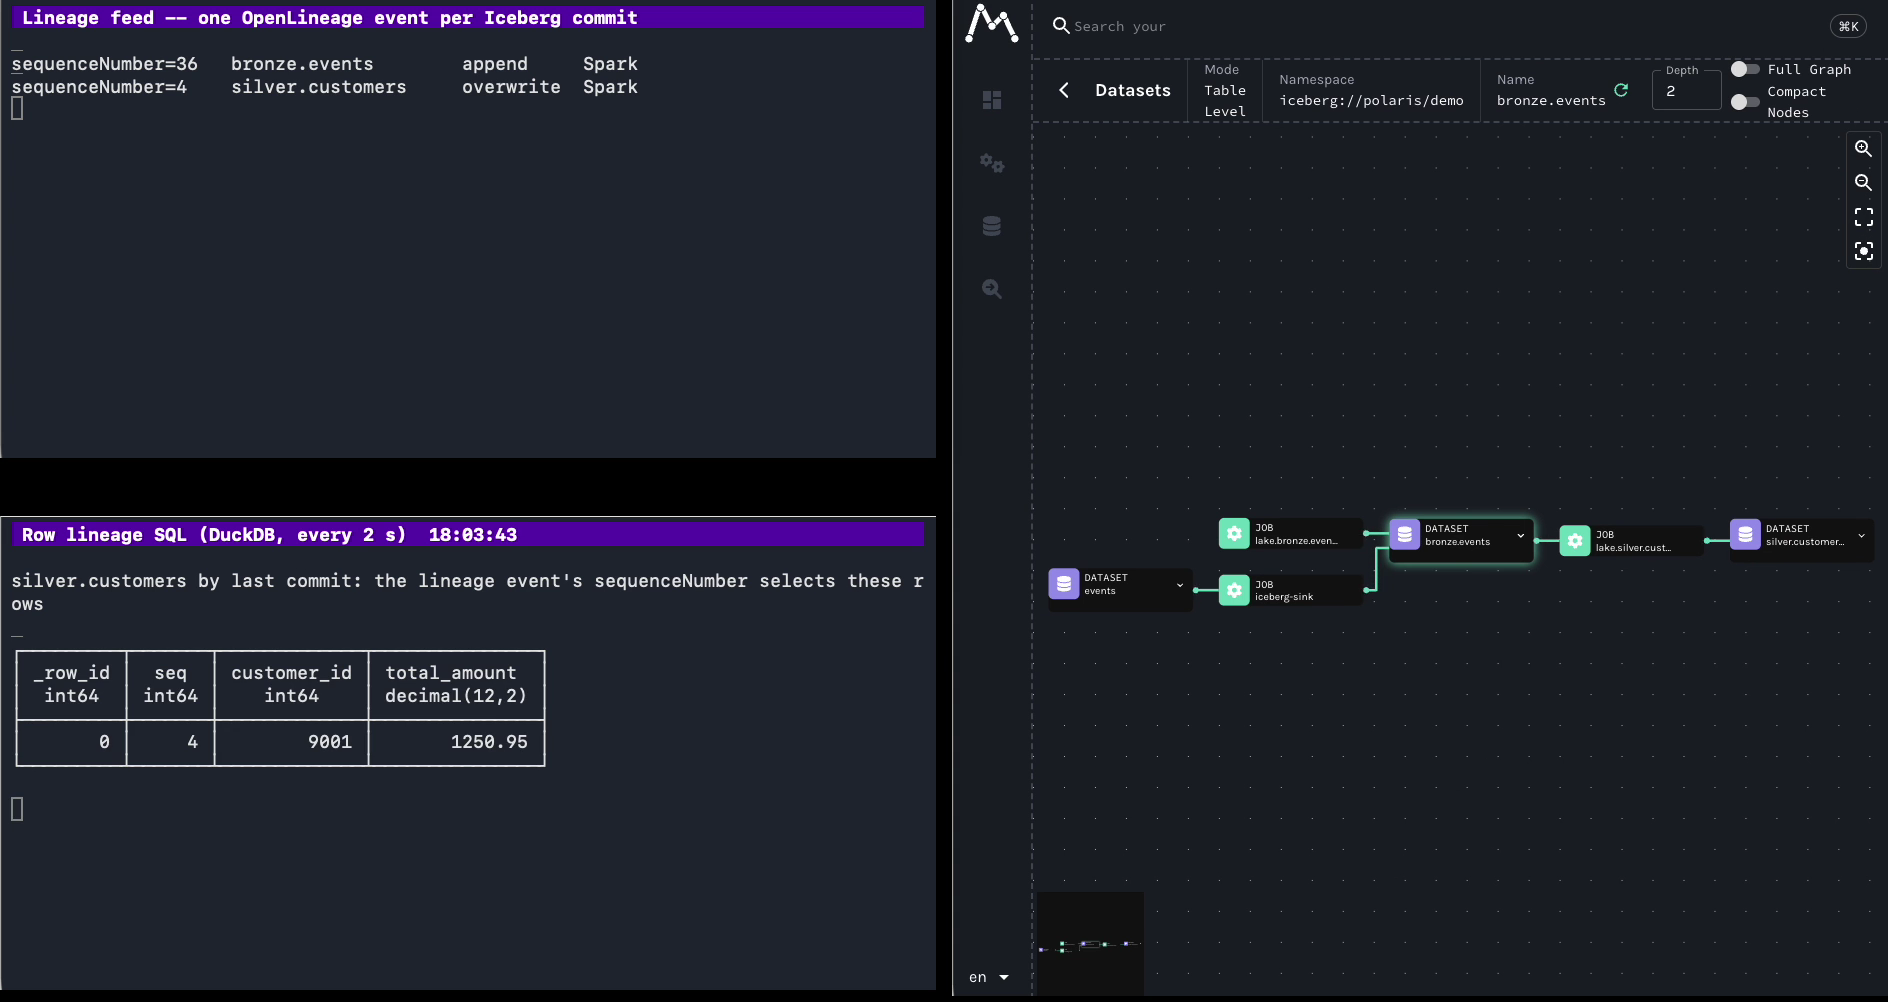
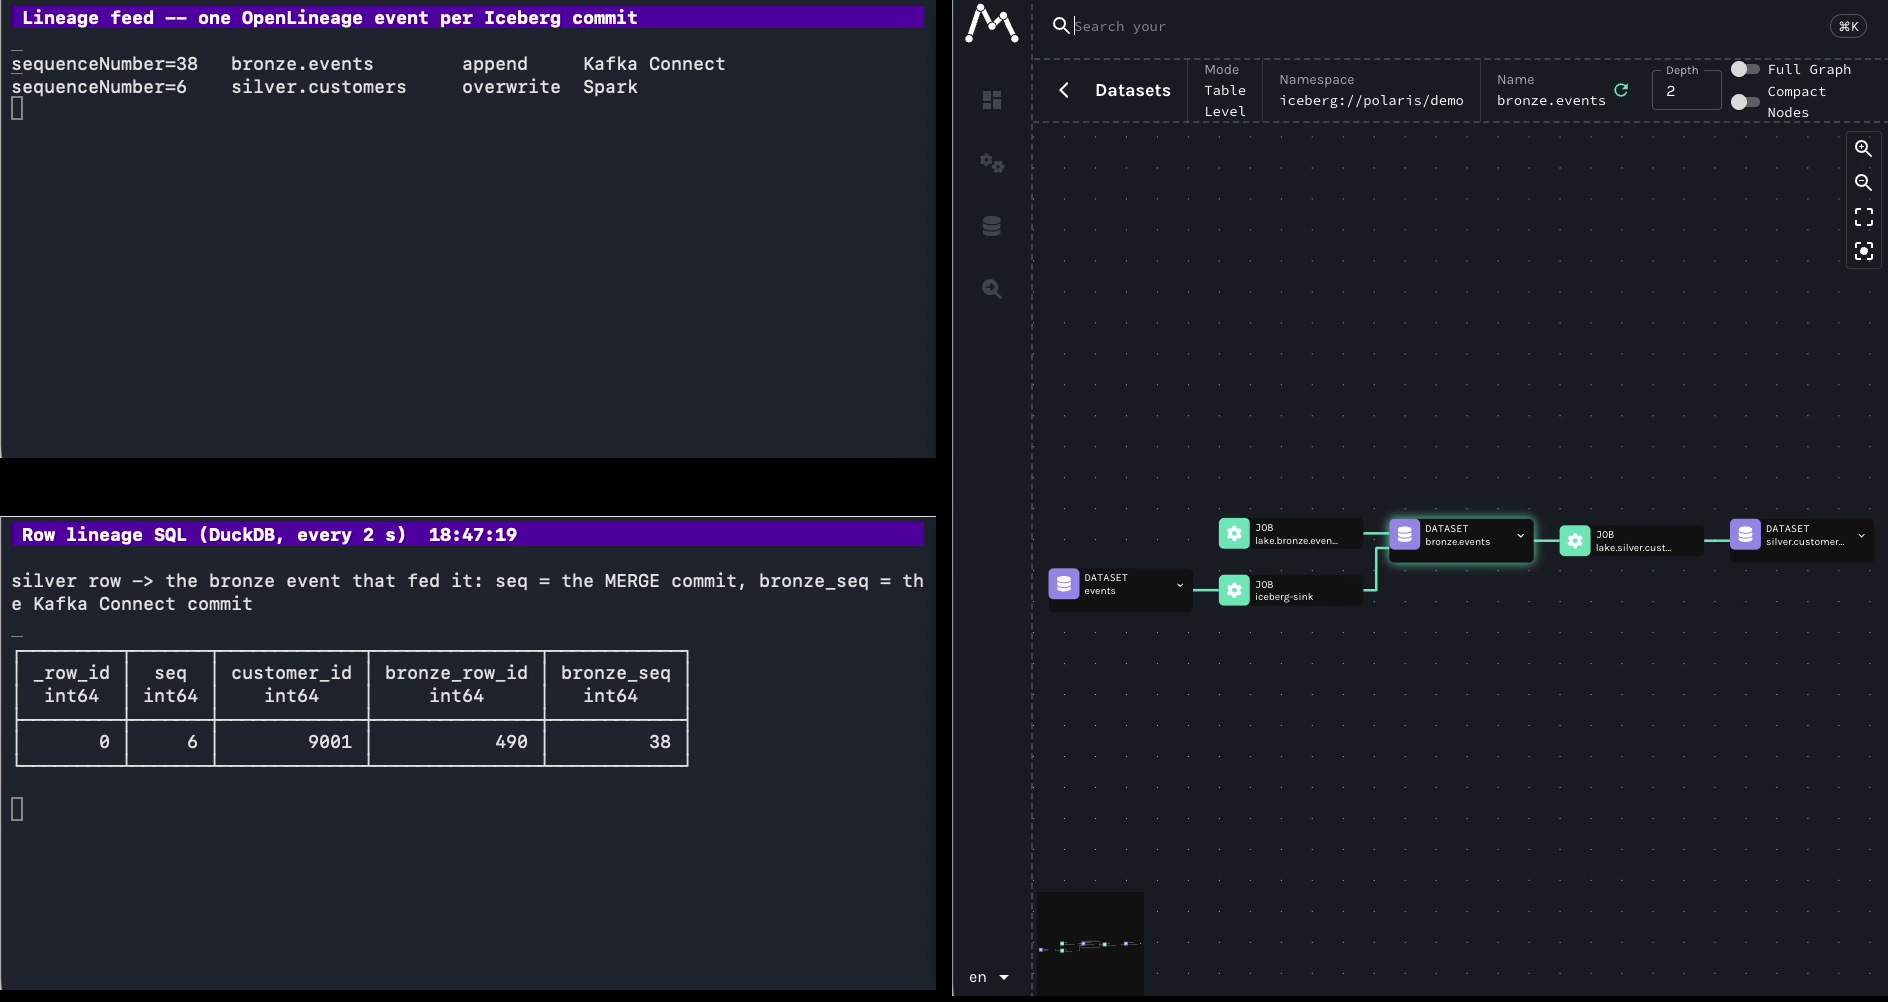
Trace a silver row back to its Kafka input; define lakehouse-native streaming
Stage 4's event now streams in through Kafka and Kafka Connect, and a new
step follows the silver row's last_event_id to its bronze row, that row's
sequence number to the Kafka Connect commit, and the commit's lineage event
to the topic (scripts/lineage_event_for_seq.py). The recorder's stage 4 SQL
pane shows the join; stage 4 re-recorded (take 114602). Slide plan and
Claude Design prompt: slide 3 defines lakehouse-native streaming, slide 19
walks row -> input record -> ingest commit -> topic.

diff --git a/scripts/lineage_event_for_seq.py b/scripts/lineage_event_for_seq.py
@@ -1,0 +1,58 @@
+#!/usr/bin/env python3
+"""
+Runs on the HOST (not in a container) -- reads the collector's JSONL log
+directly off disk via the bind-mounted ./out/openlineage volume.
+
+Finds the OpenLineage event for one Iceberg commit: the event whose
+iceberg_commit.tableName contains the given substring and whose
+sequenceNumber matches. Prints the job that made the commit and the datasets
+it read (for Kafka Connect: the Kafka topic) -- Stage 04's last hop, from a
+bronze row's _last_updated_sequence_number back to the stream.
+
+Usage: lineage_event_for_seq.py <table_substring> <sequence_number>
+"""
+import json
+import sys
+from pathlib import Path
+
+LOG_FILE = Path(__file__).resolve().parent.parent / "out" / "openlineage" / "events.jsonl"
+
+
+def main() -> int:
+    if len(sys.argv) < 3:
+        print(__doc__)
+        return 2
+    table_substring, sequence_number = sys.argv[1], int(sys.argv[2])
+
+    if not LOG_FILE.exists():
+        print(f"FAIL: {LOG_FILE} does not exist yet -- has any commit happened?", file=sys.stderr)
+        return 1
+
+    match = None
+    with open(LOG_FILE) as f:
+        for line in f:
+            line = line.strip()
+            if not line:
+                continue
+            event = json.loads(line)
+            commit = event.get("run", {}).get("facets", {}).get("iceberg_commit", {})
+            if table_substring in commit.get("tableName", "") and commit.get("sequenceNumber") == sequence_number:
+                match = event
+
+    if match is None:
+        print(f"FAIL: no lineage event for '{table_substring}' at sequenceNumber {sequence_number}", file=sys.stderr)
+        return 1
+
+    commit = match["run"]["facets"]["iceberg_commit"]
+    job = match["job"]
+    inputs = ", ".join(f"{d['namespace']}/{d['name']}" for d in match.get("inputs", [])) or "(none)"
+    print(f"lineage event: sequenceNumber={commit['sequenceNumber']}  {commit['operation']}  {commit['tableName']}")
+    print(f"  job:   {job['namespace']}/{job['name']}")
+    print(f"  input: {inputs}")
+    print(f"\nJOB={job['namespace']}/{job['name']}")
+    print(f"INPUTS={inputs}")
+    return 0
+
+
+if __name__ == "__main__":
+    sys.exit(main())

diff --git a/SLIDE-PLAN.md b/SLIDE-PLAN.md
@@ -32,9 +32,9 @@ Schema Evolution for Streaming Data"
 | Promise | Slides |
 |---|---|
 | V3 changes governance; discussions are batch-only, streaming breaks batch assumptions | 2, 3, 4 |
-| Lakehouse-native streaming + Iceberg V3 + REST catalogs (Apache Polaris) | 6, 7, 8 |
+| Lakehouse-native streaming + Iceberg V3 + REST catalogs (Apache Polaris) | 3 (defined), 6, 7, 8 |
 | Fine-grained governance for continuously ingested data | 20 (catalog as control point; Apache Polaris RBAC) |
-| Row-level lineage: which records and transformations produced the data, as it arrives | 6, 7, 9, 16, 18, 19 |
+| Row-level lineage: which records and transformations produced the data, as it arrives | 6, 7, 9, 16, 18, 19 (row -> input record -> ingest commit -> topic) |
 | Schema evolution for streaming sources, no stop/restart | 10, 12, 13 |
 | Bring Your Own Lineage alongside your catalog, without disrupting pipelines | 15, 16, 17, 18 |
 | Trustworthy, auditable data from the moment it's ingested | 19, 21 |
@@ -101,9 +101,9 @@ template's native slide type. Plate types (`Cover`, `Divider`, `Subdivider`,
 **Core Message:** Continuous commits, upserts and schema drift each break something batch lineage relied on.
 **Visual Manifest:**
   - Type: `Typography_Only` (three `AccentCard` + `HexIcon` cards, icons: pipeline, workflow, grid)
-  - Spec: card 1 "A commit every 2 seconds" (Kafka Connect's commit interval in this demo, `iceberg.control.commit.interval-ms: 2000`); card 2 "Upserts against rows that already exist"; card 3 "Producers add fields without telling anyone".
-**On-Screen Text:** the three card titles.
-**Speaker Notes:** In a stream nothing waits for a nightly run. Kafka Connect commits every two seconds in this demo, CDC sinks rewrite rows that already exist, and producers change their payloads without asking. A table-level graph has no row concept, so it can't follow any of that. Bridge: "We hit all three, plus some traps we didn't expect."
+  - Spec: card 1 "A commit every 2 seconds" (Kafka Connect's commit interval in this demo, `iceberg.control.commit.interval-ms: 2000`); card 2 "Upserts against rows that already exist"; card 3 "Producers add fields without telling anyone". Above the cards, one definition line: "Lakehouse-native streaming: the stream lands as Iceberg commits through the catalog, continuously -- no batch ETL hop in between."
+**On-Screen Text:** the definition line + the three card titles.
+**Speaker Notes:** First, what I mean by lakehouse-native streaming: the stream doesn't wait for a batch job to copy it into the lakehouse; it lands as Iceberg commits through the catalog, continuously. In this demo that's Kafka through the Kafka Connect Iceberg sink. In a stream nothing waits for a nightly run. Kafka Connect commits every two seconds in this demo, CDC sinks rewrite rows that already exist, and producers change their payloads without asking. A table-level graph has no row concept, so it can't follow any of that. Bridge: "We hit all three, plus some traps we didn't expect."
 **Time:** Rough Terrain, ~2 min
 
 ### Slide 4 -- "Three ways to get no row lineage at all"
@@ -135,7 +135,7 @@ template's native slide type. Plate types (`Cover`, `Divider`, `Subdivider`,
   - Type: `Mermaid_Architecture`
   - Spec: Kafka JSON event (no `_row_id`) -> Kafka Connect writes plain Parquet -> commit -> snapshot with `first-row-id` + `added-rows` -> table `next-row-id`. Second commit continues from the first. Numbers *(Polaris recording 2026-10-08, take 105614: 300 events streamed one every 0.25 s, 17 Kafka Connect commits)*: the last six commits, sequence numbers 12-17, have `first-row-id` 242 / 246 / 262 / 266 / 282 / 286 with `added-rows` 4 / 16 / 4 / 16 / 4 / 14, so `next-row-id` = 300.
 **On-Screen Text:** "`_row_id` = `first-row-id` + position"
-**Speaker Notes:** Kafka Connect writes ordinary Parquet with no lineage columns. When the snapshot commits, Iceberg assigns the row ids through manifest inheritance: each commit gets a `first-row-id`, the next commit starts where it ended. So the streaming writer needs zero changes. Bridge: "Here it is on the stream -- recorded from the demo."
+**Speaker Notes:** Kafka Connect writes ordinary Parquet with no lineage columns. When the snapshot commits, Iceberg assigns the row ids through manifest inheritance: each commit gets a `first-row-id`, the next commit starts where it ended. So the streaming writer needs zero changes. And because identity is assigned at commit, not by the writer, this holds for any lakehouse-native streaming writer that commits through the catalog -- the Kafka Connect sink is just the one we used. Bridge: "Here it is on the stream -- recorded from the demo."
 **Time:** Hidden Valley, ~2 min
 
 ### Slide 7 -- "The message has no id. The row does."
@@ -271,7 +271,7 @@ public class OpenLineageMetricsReporter implements MetricsReporter {
 "iceberg.catalog.metrics-reporter-impl":
     "com.demo.lineage.OpenLineageMetricsReporter"
 ```
-**Speaker Notes:** Iceberg calls `report()` after every commit; we keep only `CommitReport`. The same jar runs in Spark and in Kafka Connect. For Connect it's one connector property, no change to the sink itself. That's what "without disrupting streaming pipelines" means here. Bridge: "Now the graph has the ingest leg too."
+**Speaker Notes:** Iceberg calls `report()` after every commit; we keep only `CommitReport`. The same jar runs in Spark and in Kafka Connect. For Connect it's one connector property, no change to the sink itself. That's what "without disrupting streaming pipelines" means here. And it emits standard OpenLineage events, so any OpenLineage backend can take them -- we show Marquez, the reference implementation; that's the "bring your own" part. Bridge: "Now the graph has the ingest leg too."
 **Time:** Blazed Trail, ~1.5 min
 
 ### Slide 18 -- "The graph now starts at the topic"
@@ -284,14 +284,18 @@ public class OpenLineageMetricsReporter implements MetricsReporter {
 **Speaker Notes:** This is Marquez, the OpenLineage reference UI, fed by the reporter. The topic, the Kafka Connect job, the bronze table, the `MERGE` and the silver table are one connected graph, from the stream all the way to the curated table. Open a run and there's the `sequenceNumber`. Bridge: "So let's use it."
 **Time:** Blazed Trail, ~1.5 min
 
-### Slide 19 -- "From a lineage event to the exact rows"
+### Slide 19 -- "From a lineage event to the exact rows -- and back to the stream"
 **Suggested Layout:** `Screenshot`
-**Core Message:** The `sequenceNumber` in a lineage event selects exactly the rows that commit produced.
+**Core Message:** The `sequenceNumber` in a lineage event selects exactly the rows that commit produced -- and one hop back, the input record and the Kafka Connect commit that brought it in from the topic.
 **Visual Manifest:**
   - Type: `Typography_Only` (framed clip)
-  - Spec: demo stage 4. Lineage feed terminal line `sequenceNumber=4   silver.customers   overwrite   Spark` -> SQL window `SELECT * FROM silver.customers WHERE _last_updated_sequence_number = N;` -> rows. *(Polaris recording 2026-10-08, customer 9001: sequenceNumber 4 -> `_row_id` 0, customer 9001 -- the same row stage 2 updated.)*
-**On-Screen Text:** "`WHERE _last_updated_sequence_number = <sequenceNumber>`"
-**Speaker Notes:** Graph event on top, rows underneath, joined on one number. Nothing in the streaming pipeline changed to make this work. That's the "auditable from the moment it's ingested" claim: identity assigned at commit, joined to the lineage tool you already run. Bridge: "Which raises the governance question: who controls all this?"
+  - Spec: demo stage 4 (`stage4-20261008-114602.mp4`, still `slide18-19-stage4-end.png`). A new event for customer 9001 streams in through Kafka; Kafka Connect commits it to `bronze.events`; a Spark `MERGE` folds it into `silver.customers`. Lineage feed (top left), two lines: `sequenceNumber=38   bronze.events      append      Kafka Connect` and `sequenceNumber=6    silver.customers   overwrite   Spark`. SQL window (bottom left) joins the silver row to the bronze event it points at (`last_event_id`): `_row_id` 0, `seq` 6, customer 9001, `bronze_row_id` 490, `bronze_seq` 38. *(Polaris recording 2026-10-08. Writer output, not in the clip: the lineage event for `bronze.events` at sequenceNumber 38 is job `kafka-connect/iceberg-sink`, input `kafka://kafka:9092/events`.)* Callouts: `seq` 6 <-> the feed's `sequenceNumber=6` line; `bronze_seq` 38 <-> the feed's `sequenceNumber=38` line.
+**On-Screen Text:**
+```
+WHERE _last_updated_sequence_number = <sequenceNumber>     -- the rows a commit produced
+silver row -> last_event_id -> bronze row -> its commit -> Kafka topic
+```
+**Speaker Notes:** Graph event on top, rows underneath, joined on one number: the `MERGE` was sequenceNumber 6, and that selects silver row 0, the same row stage 2 updated. Now walk it back. The silver row says which event fed it; that event is bronze row 490, last written at sequence number 38 -- and the feed has a line for 38: Kafka Connect, reading the `events` topic. So from one row in a curated table we got to the exact input record, the commit that ingested it, and the topic it came from. Nothing in the streaming pipeline changed to make this work. That's the "auditable from the moment it's ingested" claim. Bridge: "Which raises the governance question: who controls all this?"
 **Time:** Blazed Trail, ~2 min
 
 ### Slide 20 -- "The catalog is the control point"
@@ -340,8 +344,9 @@ adjacent, and all three are `Typography_Only`.
 ## Recorded clips and stills (2026-10-08, take 105614)
 
 **Primary: Apache Polaris** (ASF catalog) -- `demo/recordings/polaris/`:
-`stage1..5-20261008-105614.mp4` (1888x990 / 1888x976; 141 s, 53 s, 70 s, 41 s,
-40 s), recorded with per-stage layouts (only the windows each slide needs,
+`stage1..3,5-20261008-105614.mp4` + `stage4-20261008-114602.mp4` (stage 4
+re-recorded alone with the trace back to the source; 1888x990 / 1888x976 /
+1888x1002; 141 s, 53 s, 70 s, 41 s, 40 s), recorded with per-stage layouts (only the windows each slide needs,
 18 pt, pinned title bars), stage 1 streaming one event every 0.25 s, the
 Polaris console taking the right half at the end of stages 1 and 3, MinIO
 full frame at the end of stage 2, Marquez on the right through stage 4; plus
@@ -357,7 +362,7 @@ the table. Stills in `demo/recordings/polaris/stills/`:
 | 10 | `slide10-stage3-mid-stream.png` -- Kafka JSON with `channel`, "sink evolved bronze.events by itself: 1 -> 2 schemas", SQL rows with `channel`; `slide10-stage3-end.png` -- proof (15 Kafka Connect appends, 0 deleted files, schemas 1 -> 2) + before/after table (402 NULL / mobile 31 / store 25 / web 30); `slide10-stage3-polaris-schema.png` -- Polaris console Schema: id 1, `channel` string |
 | 11 | `slide11-stage5-churn.png` -- writer + SQL, customer 9500, `_row_id` 2 after 3 rounds |
 | 12 | none (slides only) |
-| 18, 19 | `slide18-19-stage4-end.png` -- lineage feed + SQL (left), Marquez graph `events -> iceberg-sink -> bronze.events -> lake.silver.customers.commit -> silver.customers` (right) |
+| 18, 19 | `slide18-19-stage4-end.png` -- lineage feed (seq 38 Kafka Connect, seq 6 Spark) + SQL (silver `_row_id` 0 seq 6 -> bronze row 490 seq 38) (left), Marquez graph `events -> iceberg-sink -> bronze.events -> lake.silver.customers.commit -> silver.customers` (right) |
 | 20 | `slide20-polaris-access-control.png` -- Polaris console, Users & Access Control |
 
 **Backup: Lakekeeper** -- `demo/recordings/` (`stage1-20261007-172448.mp4`,

diff --git a/DESIGN-REVISION-RECORDING.md b/DESIGN-REVISION-RECORDING.md
@@ -2,7 +2,9 @@
 
 Paste the block below into the Claude Design session that already has the
 deck (after `DESIGN-REVISION-POLARIS.md`). It supersedes any earlier version
-of this file. The demo was re-recorded with a new stage 3: the source adds a
+of this file. Stage 4 was re-recorded alone (take 114602) to trace a silver row
+back to its Kafka input, and slide 3 now defines lakehouse-native streaming.
+The demo was re-recorded with a new stage 3: the source adds a
 field mid-stream and the Kafka Connect sink evolves the table by itself (no
 more operator schema changes, defaults or VARIANT in the demo). The lineage
 graph now reaches silver.customers, and stage 2 ends in the MinIO console.
@@ -14,9 +16,9 @@ graph now reaches silver.customers, and stage 2 ends in the MinIO console.
 
 ```
 The demo was re-recorded and its schema-evolution story changed, so update
-the deck's screenshots, a few numbers, and slides 10, 12, 13 and 21.
+the deck's screenshots, a few numbers, and slides 3, 10, 12, 13, 19 and 21.
 SLIDE-PLAN.md in the linked folder is already updated and remains the
-locked spec -- reread slides 6-13, 18, 19 and 21 there. Change only what's
+locked spec -- reread slides 3, 6-13, 17, 18, 19 and 21 there. Change only what's
 listed; keep everything else, all the original rules (no placeholders or
 file names on screen, numbers exactly as written, code verbatim), 22 slides,
 plates at 1, 5 and 15.
@@ -51,8 +53,12 @@ pane(s) each slide is about and keep the title bars in the crop:
   graph (right). The graph is now one chain: events -> iceberg-sink ->
   bronze.events -> lake.silver.customers.commit -> silver.customers (plus
   lake.bronze.events.commit writing bronze.events). Redraw slide 18's
-  diagram/callouts to match. Feed line still reads
-  "sequenceNumber=4   silver.customers   overwrite   Spark".
+  diagram/callouts to match. The feed now has two lines --
+  "sequenceNumber=38   bronze.events   append   Kafka Connect" and
+  "sequenceNumber=6   silver.customers   overwrite   Spark" -- and the SQL
+  pane joins the silver row to its input event: _row_id 0, seq 6, customer
+  9001, bronze_row_id 490, bronze_seq 38. Slide 19 callouts: seq 6 <-> the
+  feed's sequenceNumber=6 line, bronze_seq 38 <-> the sequenceNumber=38 line.
 
 ## Story changes
 
@@ -68,6 +74,14 @@ pane(s) each slide is about and keep the title bars in the crop:
   optional" (detail in the plan).
 - Slide 21: step 6 reworded (evolve-schema-enabled, VARIANT for unmodeled
   fields, defaults only where every writer applies them).
+- Slide 3: add the one-line definition of lakehouse-native streaming above
+  the three cards (text in the plan); notes as in the plan.
+- Slides 6 and 17: speaker notes only (any writer that commits through the
+  catalog; any OpenLineage backend).
+- Slide 19: new title "From a lineage event to the exact rows -- and back to
+  the stream", new core message, two-line on-screen code block, notes as in
+  the plan: the row, its input record, the commit that ingested it, the
+  topic.
 
 ## Numbers
 
@@ -78,14 +92,17 @@ pane(s) each slide is about and keep the title bars in the crop:
 - Slide 10: 185 events streamed, all 185 landed, the last 86 with channel;
   15 snapshots, all Kafka Connect appends, 0 deleted files; schemas 1 -> 2;
   task still RUNNING; before/after: 402 NULL, mobile 31, store 25, web 30.
-- Slide 9 (sequence 1 / 2 / 3), 11 (0 / 1 / 2) and 19 (sequenceNumber 4 ->
-  _row_id 0) are unchanged.
+- Slide 19: sequenceNumber 6 -> silver _row_id 0 (customer 9001), its
+  input event = bronze _row_id 490 at sequenceNumber 38 (Kafka Connect,
+  topic events).
+- Slides 9 (sequence 1 / 2 / 3) and 11 (0 / 1 / 2) are unchanged.
 
 ## Video slots
 
 Speaker notes name the clips (I embed them): slide 7 ->
 stage1-slide07-streaming-55s.mp4; slide 9 -> stage2-20261008-105614.mp4;
-slide 10 -> stage3-20261008-105614.mp4; slide 19 -> stage4-20261008-105614.mp4.
+slide 10 -> stage3-20261008-105614.mp4; slide 19 -> stage4-20261008-114602.mp4
+(stage 4 was re-recorded alone).
 
 ## After updating
 
@@ -93,5 +110,5 @@ Report what changed per slide and how you cropped each still, and confirm
 with a text-only pass over the on-screen content and notes that none of
 these old values appear: "1727", "243 / 251", "19 commits", "250 events",
 "24 snapshots", "22 Kafka Connect", "1 -> 4", "341", "212", "id 3",
-"raw_payload", "ADD COLUMN channel", "093045".
+"raw_payload", "ADD COLUMN channel", "093045", "sequenceNumber=4".
 ```

diff --git a/demo/04-composable-lineage/README.md b/demo/04-composable-lineage/README.md
@@ -11,7 +11,8 @@ That bridge is what we call **Composable Lineage** here -- never "BYOL".
 ## Run it
 
 ```
-demo/run-stage.sh 4
+demo/run-stage.sh 4          # customer 9002 (new row)
+demo/run-stage.sh 4 9001     # stage 2's customer: the join lands on an updated row (recorded)
 ```
 
 ## What happens
@@ -23,7 +24,10 @@ demo/run-stage.sh 4
    `CommitReport` after every commit -- `tableName`, `snapshotId`,
    `sequenceNumber`, `operation` -- and POSTs a minimal OpenLineage-shaped
    `RunEvent` to `openlineage-collector`.
-2. This stage runs one `MERGE` against `silver.customers`.
+2. A new event streams in like every other bronze row: Kafka ->
+   Kafka Connect -> `bronze.events` (the stage waits for the commit). A
+   Spark `MERGE` reads it from `bronze.events` (declared as the input via
+   `OPENLINEAGE_INPUTS`) and folds it into `silver.customers`.
 3. `scripts/latest_lineage_event.py` reads the emitted event back out of
    `out/openlineage/events.jsonl` and prints it -- **the graph-level view**.
    It extracts `sequenceNumber` from that event.
@@ -31,6 +35,14 @@ demo/run-stage.sh 4
    `silver.customers WHERE _last_updated_sequence_number = <that number>`
    -- **the row-level view**, driven entirely by the graph event's own
    field.
+5. **Back to the source:** the silver row's `last_event_id` joins it to its
+   input event in `bronze.events`; that row's
+   `_last_updated_sequence_number` is the Kafka Connect commit that wrote
+   it, and `scripts/lineage_event_for_seq.py` finds that commit's lineage
+   event: job `kafka-connect/iceberg-sink`, input the Kafka topic. Row ->
+   input record -> ingest commit -> topic. *(Recording 2026-10-08: silver
+   `_row_id` 0 at seq 6 -> bronze `_row_id` 490 at seq 38 -> iceberg-sink,
+   `kafka://kafka:9092/events`.)*
 
 ## Why a custom MetricsReporter instead of `openlineage-spark`
 

diff --git a/PROGRESS.md b/PROGRESS.md
@@ -218,6 +218,22 @@ deleted files, schemas 1 -> 2, task RUNNING, 402 NULL / mobile 31 / store 25
 the full Marquez chain; stage 5 `_row_id` 0/1/2. `SLIDE-PLAN.md` and
 `DESIGN-REVISION-RECORDING.md` updated for this take.
 
+### Abstract gaps closed (2026-10-08)
+
+- "Lakehouse-native streaming" defined on slide 3 (the stream lands as
+  Iceberg commits through the catalog, continuously, no batch ETL hop);
+  slide 6 notes: works for any writer that commits through the catalog;
+  slide 17 notes: any OpenLineage backend.
+- "Which specific records produced it": stage 4's event now streams in
+  through Kafka -> Kafka Connect (no Spark INSERT), and a new step traces the
+  silver row back: `last_event_id` -> bronze row -> its
+  `_last_updated_sequence_number` = the Kafka Connect commit ->
+  `scripts/lineage_event_for_seq.py` -> job `kafka-connect/iceberg-sink`,
+  input `kafka://kafka:9092/events`. The recorder's stage 4 SQL pane shows the
+  join. Stage 4 re-recorded alone on the 105614 state:
+  `stage4-20261008-114602.mp4` (feed: seq 38 Kafka Connect, seq 6 Spark; SQL:
+  silver `_row_id` 0 seq 6 -> bronze row 490 seq 38). Slide 19 rewritten.
+
 ### Talk materials (2026-10-07)
 
 `SLIDE-PLAN.md` (22 slides, Datadog 2026 template, real recording values,
